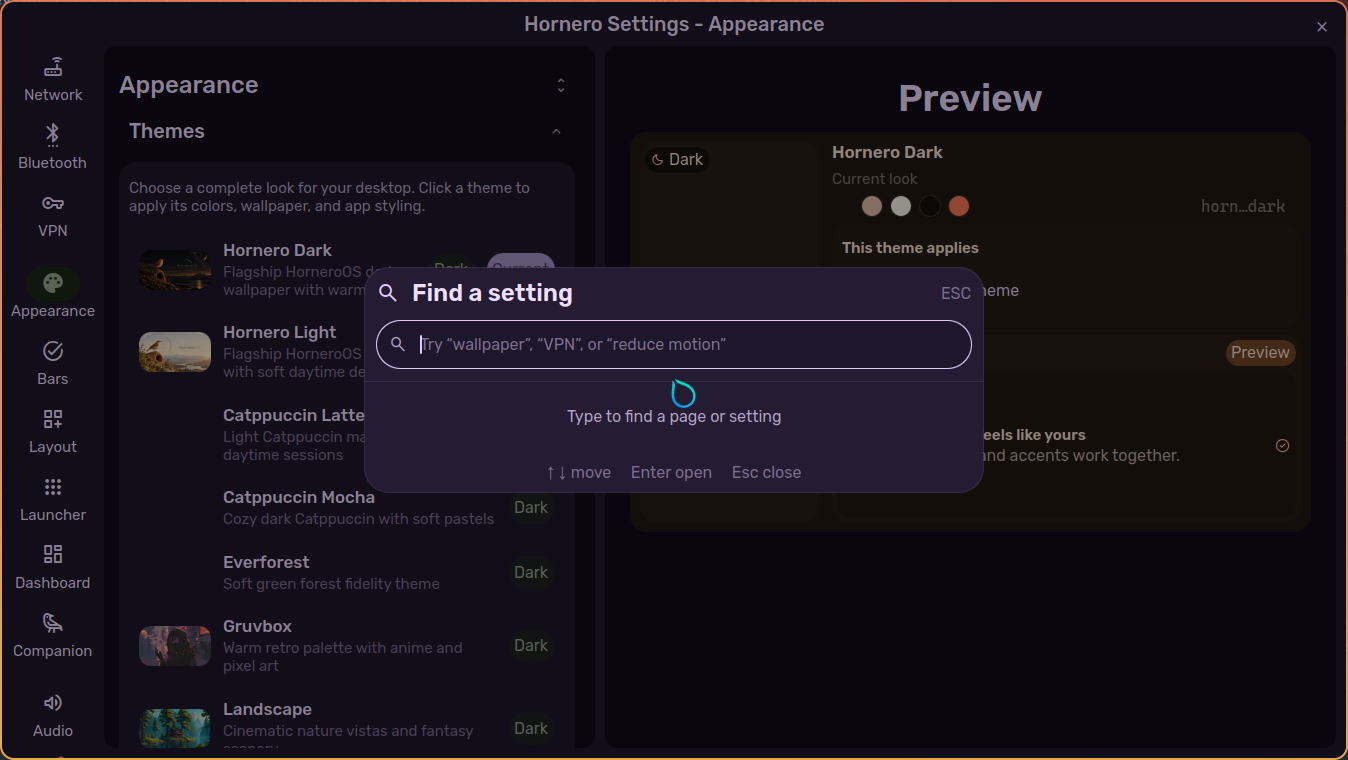
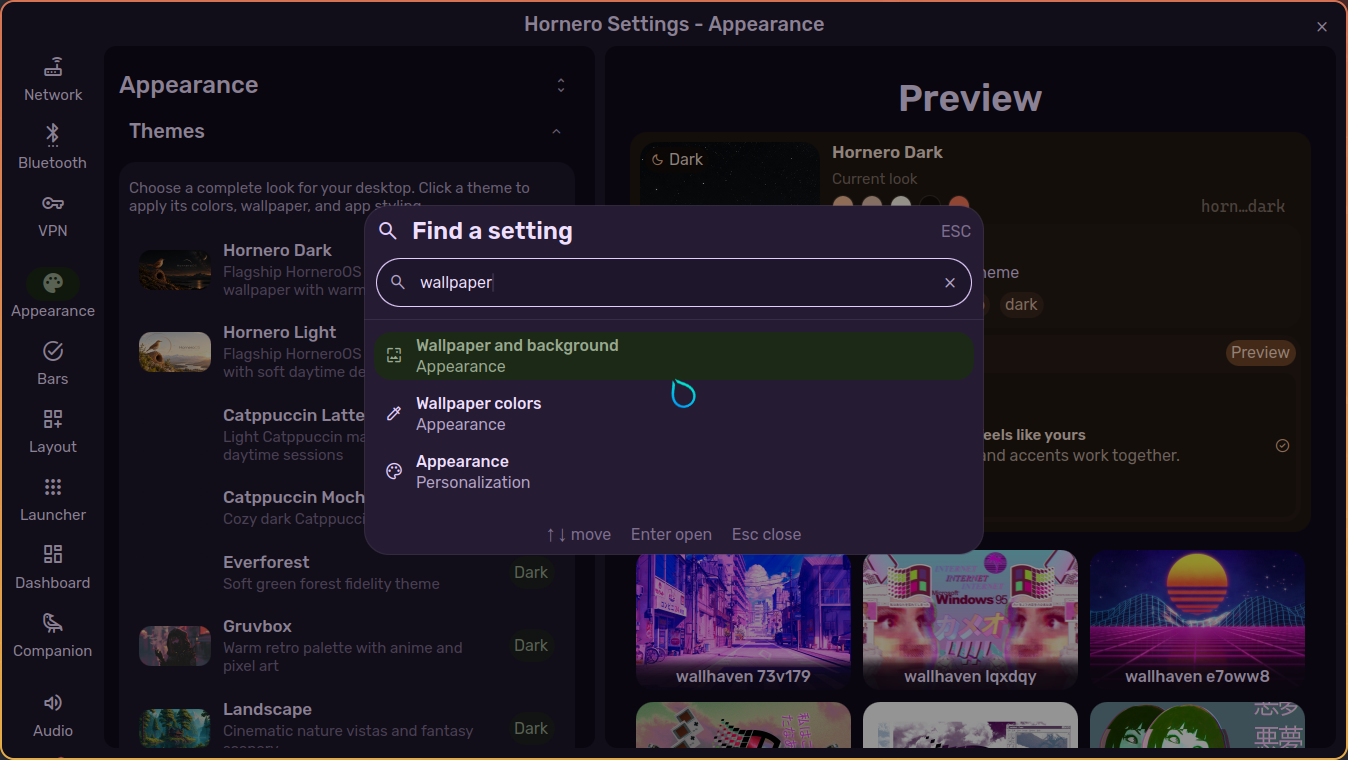
fix(settings): route search into Appearance sections

diff --git a/modules/controlcenter/appearance/AppearancePane.qml b/modules/controlcenter/appearance/AppearancePane.qml
@@ -47,6 +47,8 @@ Item {
     // _sectionsReady guards write-back while initial state is restored.
     property bool _sectionsReady: false
     readonly property var _sectionKeys: ["themes", "themeMode", "colorVariant", "colorScheme", "gtkTheme", "gtkColorScheme", "iconTheme", "fonts", "animations", "scales", "transparency", "border", "background"]
+    property var sectionItems: ({})
+    property var sectionScroll: null
 
     function isSectionExpanded(key: string): bool {
         return Config.controlCenter.appearanceExpandedSections.indexOf(key) !== -1;
@@ -67,47 +69,24 @@ Item {
 
     function setAllSections(expand: bool): void {
         root._sectionsReady = false;
-        themesSection.expanded = expand;
-        themeModeSection.expanded = expand;
-        colorVariantSection.expanded = expand;
-        colorSchemeSection.expanded = expand;
-        gtkThemeSection.expanded = expand;
-        gtkColorSchemeSection.expanded = expand;
-        iconThemeSection.expanded = expand;
-        fontsSection.expanded = expand;
-        animationsSection.expanded = expand;
-        scalesSection.expanded = expand;
-        transparencySection.expanded = expand;
-        borderSection.expanded = expand;
-        backgroundSection.expanded = expand;
+        for (let i = 0; i < root._sectionKeys.length; i++) {
+            const section = root.sectionItems[root._sectionKeys[i]];
+            if (section)
+                section.expanded = expand;
+        }
         root._sectionsReady = true;
         Config.controlCenter.appearanceExpandedSections = expand ? root._sectionKeys.slice() : [];
         Config.save();
     }
 
     function revealSection(key: string): void {
-        const sections = {
-            themes: themesSection,
-            themeMode: themeModeSection,
-            colorVariant: colorVariantSection,
-            colorScheme: colorSchemeSection,
-            gtkTheme: gtkThemeSection,
-            gtkColorScheme: gtkColorSchemeSection,
-            iconTheme: iconThemeSection,
-            fonts: fontsSection,
-            animations: animationsSection,
-            scales: scalesSection,
-            transparency: transparencySection,
-            border: borderSection,
-            background: backgroundSection
-        };
-        const section = sections[key];
+        const section = root.sectionItems[key];
         if (!section)
             return;
         section.expanded = true;
         root.persistSection(key, true);
         Qt.callLater(() => {
-            const flickable = sidebarFlickable;
+            const flickable = root.sectionScroll;
             if (flickable)
                 flickable.contentY = Math.max(0, section.y - Appearance.padding.normal);
             if (root.session.requestedSection === key)
@@ -971,8 +950,30 @@ Item {
                     spacing: Appearance.spacing.small
 
                     readonly property var rootPane: sidebarFlickable.rootPane
+                    readonly property var sections: ({
+                        themes: themesSection,
+                        themeMode: themeModeSection,
+                        colorVariant: colorVariantSection,
+                        colorScheme: colorSchemeSection,
+                        gtkTheme: gtkThemeSection,
+                        gtkColorScheme: gtkColorSchemeSection,
+                        iconTheme: iconThemeSection,
+                        fonts: fontsSection,
+                        animations: animationsSection,
+                        scales: scalesSection,
+                        transparency: transparencySection,
+                        border: borderSection,
+                        background: backgroundSection
+                    })
 
                     readonly property bool allSectionsExpanded: themesSection.expanded && themeModeSection.expanded && colorVariantSection.expanded && colorSchemeSection.expanded && gtkThemeSection.expanded && gtkColorSchemeSection.expanded && iconThemeSection.expanded && fontsSection.expanded && animationsSection.expanded && scalesSection.expanded && transparencySection.expanded && borderSection.expanded && backgroundSection.expanded
+
+                    Component.onCompleted: {
+                        root.sectionItems = sidebarLayout.sections;
+                        root.sectionScroll = sidebarFlickable;
+                        if (root.session.active === "appearance" && root.session.requestedSection)
+                            Qt.callLater(() => root.revealSection(root.session.requestedSection));
+                    }
 
                     RowLayout {
                         spacing: Appearance.spacing.smaller

diff --git a/tests/test_controlcenter_panes.py b/tests/test_controlcenter_panes.py
@@ -140,6 +140,22 @@ def test_settings_search_has_keyboard_entry_and_layered_escape():
     assert "Qt.Key_Return" in search and "Qt.Key_Escape" in search
     assert "searchQuery.length > 0" in factory
 
+
+def test_appearance_section_routes_use_the_sidebar_component_scope():
+    appearance = (CC / "appearance" / "AppearancePane.qml").read_text()
+    keys = re.search(r"readonly property var _sectionKeys:\s*\[([^]]*)\]", appearance)
+    assert keys, "Appearance section ids must remain explicit"
+    section_ids = re.findall(r'"([A-Za-z]+)"', keys.group(1))
+    sidebar_map = re.search(r"readonly property var sections:\s*\(\{(.*?)\}\)", appearance, re.DOTALL)
+    assert sidebar_map, "sidebar component must expose its scoped section items"
+    for section_id in section_ids:
+        assert re.search(rf"\b{re.escape(section_id)}:\s*{re.escape(section_id)}Section\b", sidebar_map.group(1)), (
+            f"sidebar section map is missing {section_id}"
+        )
+    assert "root.sectionItems[key]" in appearance
+    assert "root.sectionScroll = sidebarFlickable" in appearance
+    assert "flickable.contentY = Math.max" in appearance
+
 def test_registered_panes_take_shared_session():
     for entry in _registry_entries():
         text = (CC / entry["component"]).read_text()
